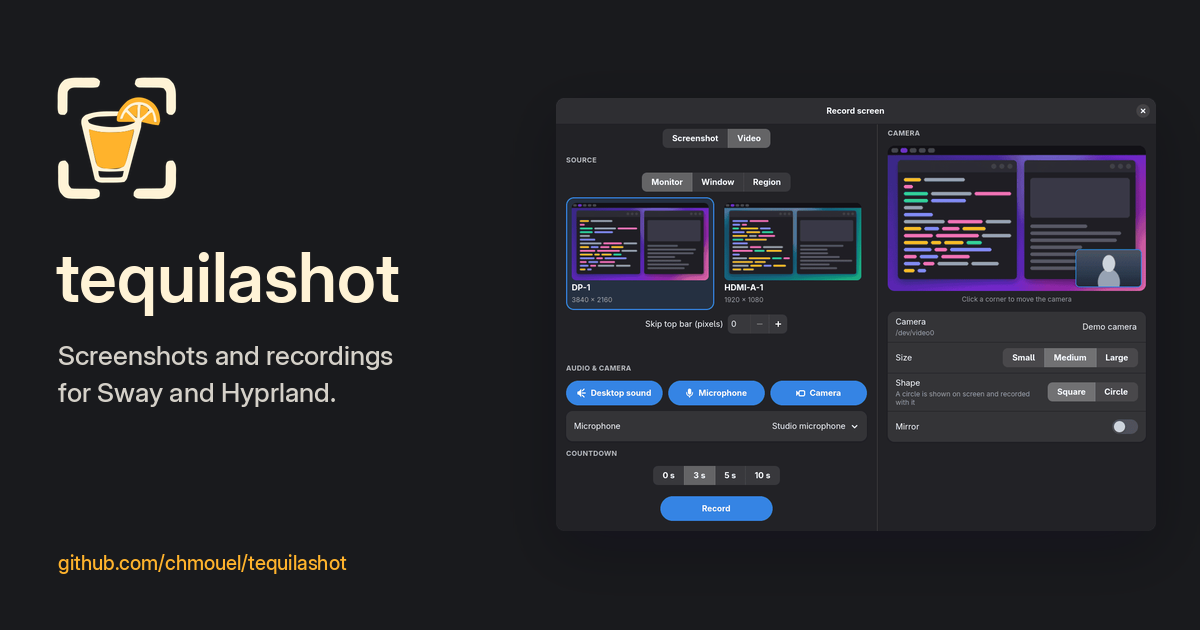
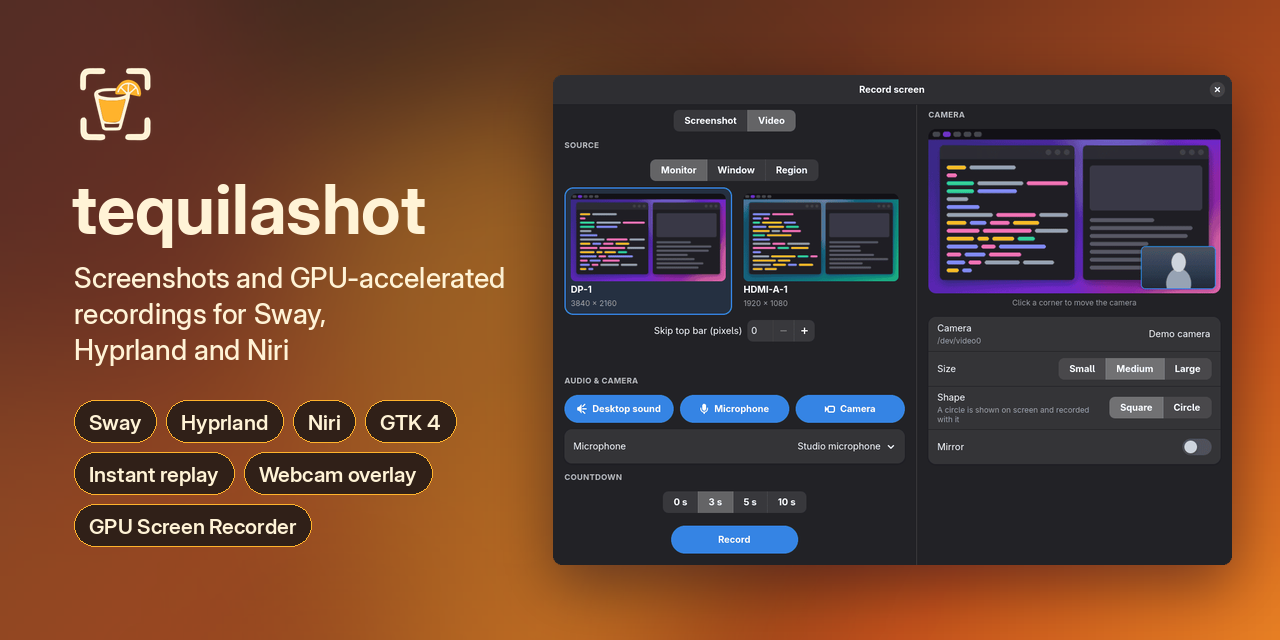
docs: restored a sunrise-themed social preview
Brought back the gradient and feature tags in the social preview, recoloured
to the tequila sunrise brand palette, dropped the repository URL and added
instant replay and the upcoming Niri support.

diff --git a/hack/screenshots.py b/hack/screenshots.py
@@ -80,6 +80,11 @@ GRAPHITE = (37, 42, 48)
 PETROL = (23, 107, 104)
 PALE_TEAL = (141, 213, 203)
 BACKDROP = [(0.0, GRAPHITE), (0.55, (31, 62, 64)), (1.0, PETROL)]
+# Tequila sunrise, taken from the brand marks in assets/.
+AGAVE_DARK = (48, 42, 36)
+AMBER = (255, 179, 44)
+CREAM = (255, 243, 214)
+SUNRISE = [(0.0, AGAVE_DARK), (0.45, (110, 52, 30)), (0.8, (196, 82, 28)), (1.0, (232, 128, 36))]
 
 
 def mock_window(w, h, kind, rnd):
@@ -290,6 +295,10 @@ def backdrop(w, h, seed):
     return blobs(gradient(w, h, BACKDROP), [PALE_TEAL, (72, 151, 145), (51, 91, 94)], seed).convert("RGBA")
 
 
+def sunrise_backdrop(w, h, seed):
+    return blobs(gradient(w, h, SUNRISE), [AMBER, (240, 110, 40), (150, 50, 40)], seed).convert("RGBA")
+
+
 def hero(shots):
     """Wide camera-enabled setup on top; window picker and both result cards below."""
     top = rounded(shots["monitor"])
@@ -317,20 +326,41 @@ def logo(size):
 
 
 def social(shots):
-    w, h = 1200, 630
-    canvas = Image.new("RGBA", (w, h), "#191A1D")
+    w, h = 1280, 640
+    canvas = sunrise_backdrop(w, h, 5)
     d = ImageDraw.Draw(canvas)
-    left = 56
-    canvas.alpha_composite(logo(148), (left - 12, 64))
-    d.text((left, 236), "tequilashot", font=font(68, "SemiBold"), fill="#FFF3D6")
-    d.multiline_text((left + 2, 338), "Screenshots and recordings\nfor Sway and Hyprland.",
-                     font=font(27, "Medium"), fill="#D5D1C9", spacing=10)
-    d.text((left + 2, 550), "github.com/chmouel/tequilashot", font=font(20, "Medium"), fill="#FFB32C")
+    left, right_edge = 72, 0
 
+    def text(xy, value, fnt, **kw):
+        nonlocal right_edge
+        box = d.multiline_textbbox(xy, value, font=fnt, **{k: v for k, v in kw.items() if k == "spacing"})
+        right_edge = max(right_edge, box[2])
+        d.multiline_text(xy, value, font=fnt, **kw)
+        return box
+
+    canvas.alpha_composite(logo(88), (left, 60))
+    text((left, 168), "tequilashot", font(68, "Bold"), fill=CREAM)
+    text((left + 2, 260), "Screenshots and GPU-accelerated\nrecordings for Sway,\nHyprland and Niri",
+         font(28, "Medium"), fill=CREAM + (235,), spacing=8)
+
+    chip_font = font(21, "SemiBold")
+    x, y = left + 2, 400
+    for row in (("Sway", "Hyprland", "Niri", "GTK 4"), ("Instant replay", "Webcam overlay"), ("GPU Screen Recorder",)):
+        for chip in row:
+            tw = d.textlength(chip, font=chip_font)
+            d.rounded_rectangle((x, y, x + tw + 30, y + 42), radius=21,
+                                fill=(48, 32, 24, 215), outline=AMBER + (130,), width=1)
+            d.text((x + 15, y + 9), chip, font=chip_font, fill=CREAM)
+            right_edge = max(right_edge, x + tw + 30)
+            x += tw + 30 + 10
+        x, y = left + 2, y + 52
+
+    # Fit the dialogue into whatever the text leaves free on the right.
     win = rounded(shots["monitor"])
-    scale = min(466 / win.height, 600 / win.width)
-    win = win.resize((round(win.width * scale), round(win.height * scale)), Image.Resampling.LANCZOS)
-    paste_with_shadow(canvas, win, (w - win.width - 44, (h - win.height) // 2), alpha=85)
+    room = w - right_edge - 48 - 48
+    scale = min((h - 80) / win.height, room / win.width)
+    win = win.resize((int(win.width * scale), int(win.height * scale)), Image.LANCZOS)
+    paste_with_shadow(canvas, win, (w - win.width - 48, (h - win.height) // 2))
     return canvas.convert("RGB")
 
 
